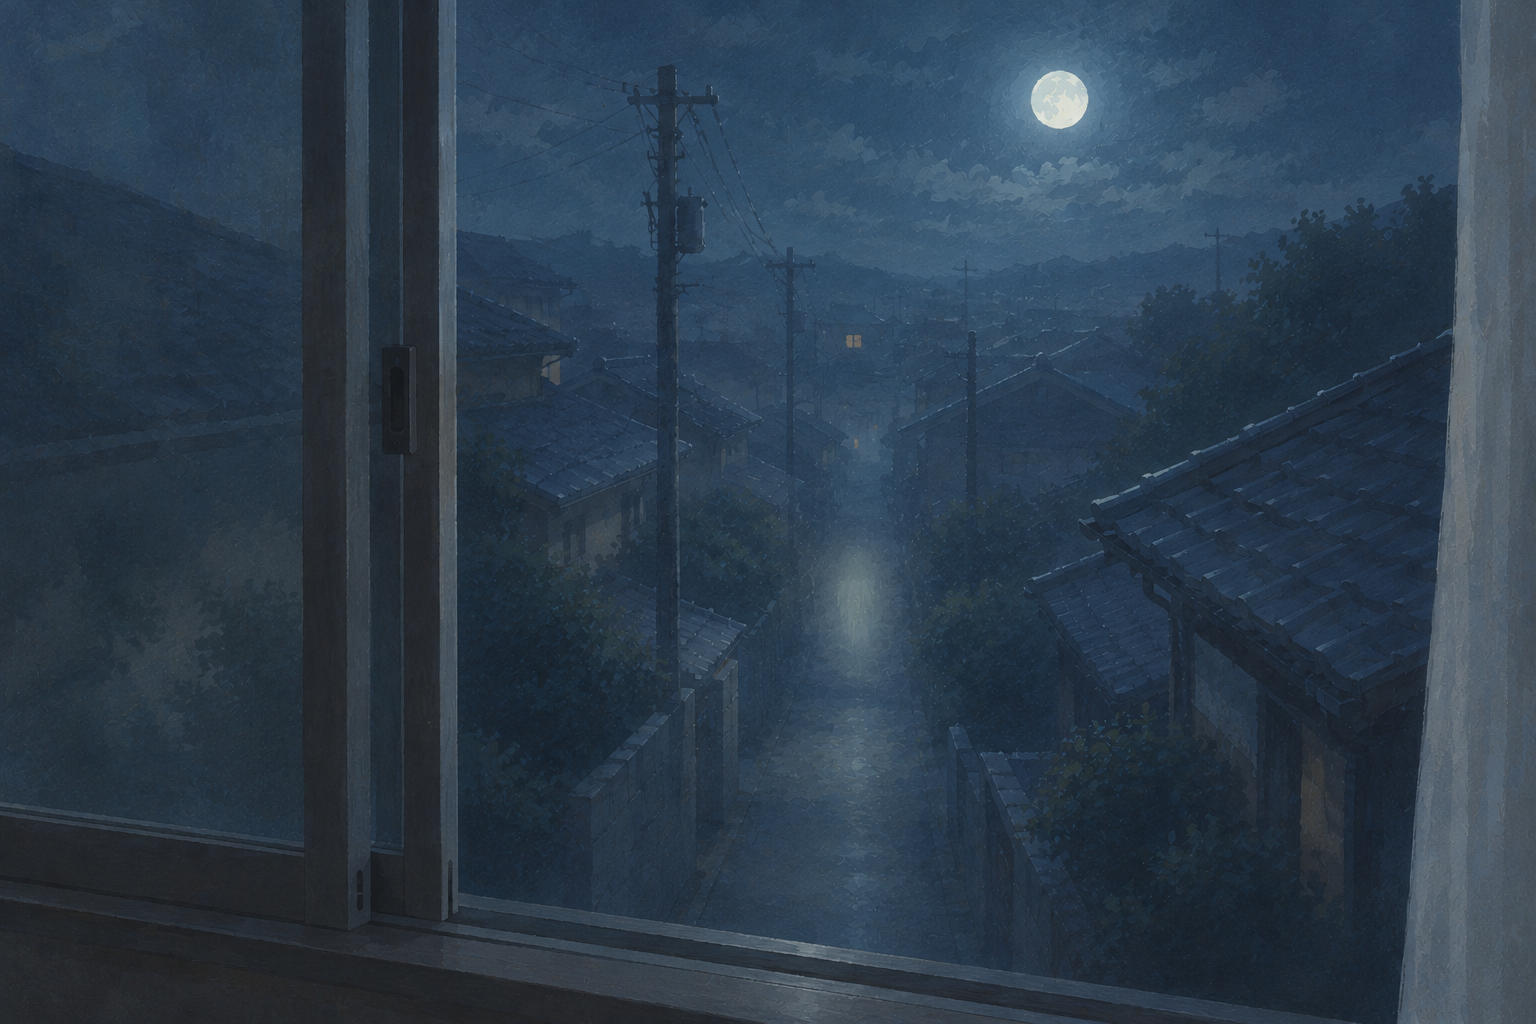
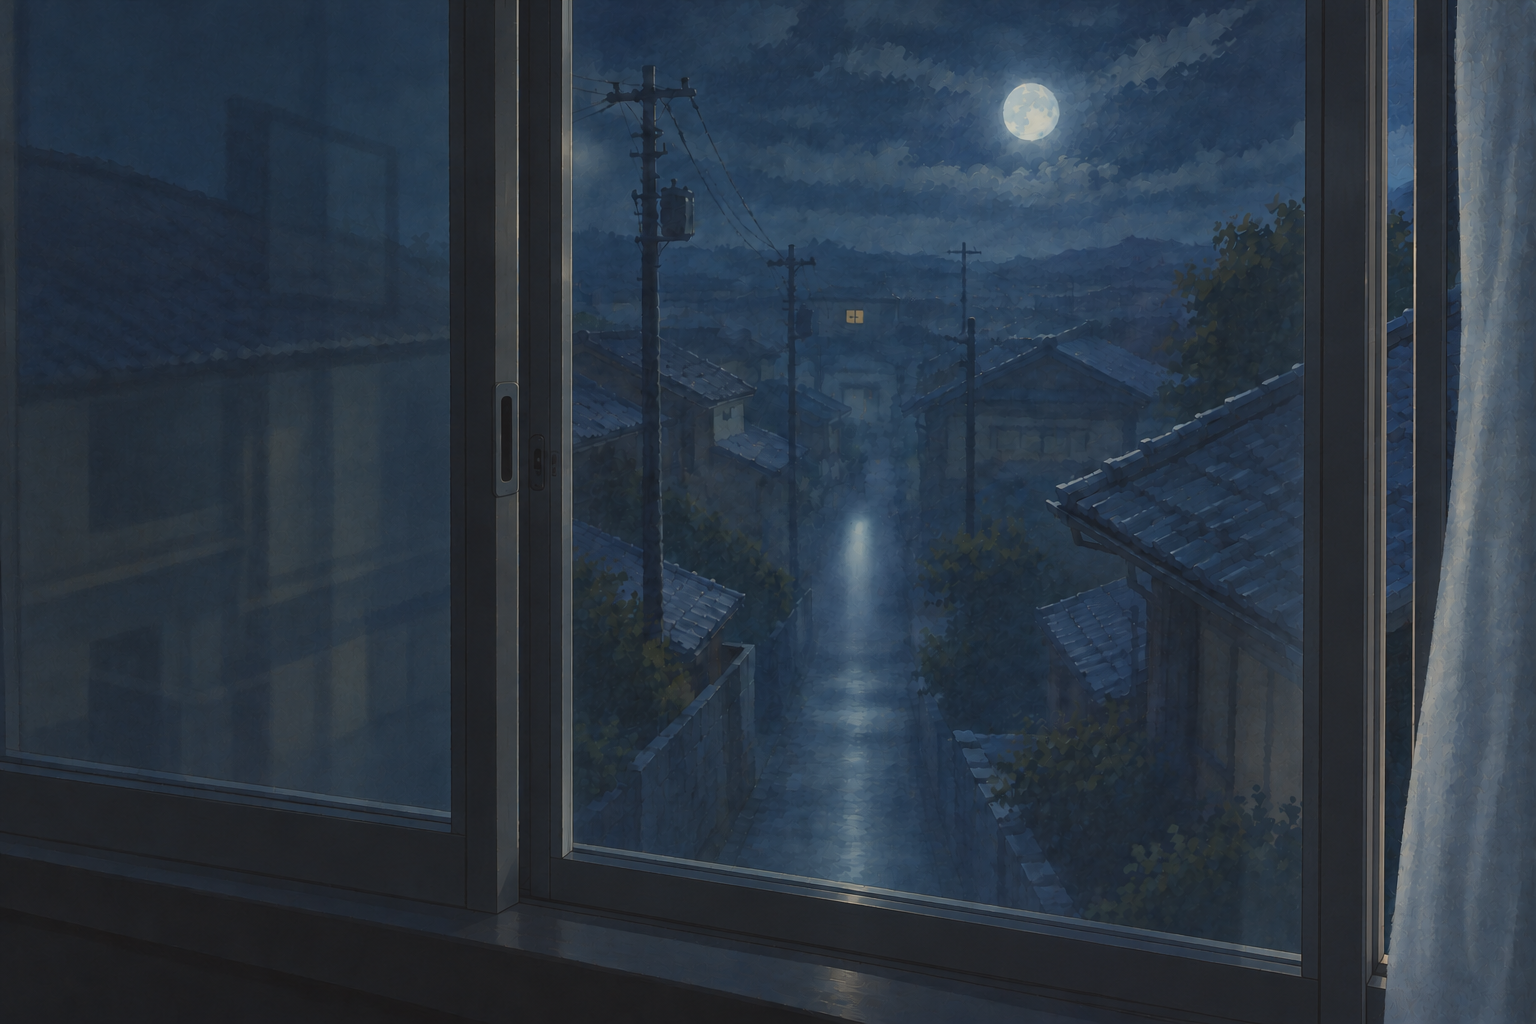
feat: 冒頭の挿絵を、窓を細く開けた構図に差し替え
本文の「細く開けた窓」や霧の分岐の描写と挿絵を揃えるため。使われなくなった旧い冒頭の SVG も削除した。

diff --git a/stories/v1/windowsill/story.js b/stories/v1/windowsill/story.js
@@ -6,7 +6,7 @@ LIMEN.registerStory("v1", "windowsill", {
       alt: "寝起きのかすんだ目で見下ろす、月明かりの路地。その先に、白っぽいものがぼんやりと見える",
       text: [
         "午前四時。夜明けにはまだ遠い時刻に目が覚めて、妹の部屋だった二階の窓辺に佇んでいた。",
-        "十年前、澪がこの家を出ていった夜から、眠りはいつも浅い。こうして目が覚めてしまった晩は、開け放った窓から夜気を入れて、夜明けを待つのが癖になっていた。",
+        "十年前、澪がこの家を出ていった夜から、眠りはいつも浅い。こうして目が覚めてしまった晩は、細く開けた窓から夜気を入れて、夜明けを待つのが癖になっていた。",
         "路地は、月明かりに青白く照らされている。寝起きの霞んだ目で眺めていると、その先に、白っぽいものがぼんやりと見えた。",
         "さっきまでは、確かに何もなかったはずだが…。目を凝らせど輪郭はぼやけて、形が定まらない。まるで、こちらが見定めるのを待っているようだった。",
       ],
